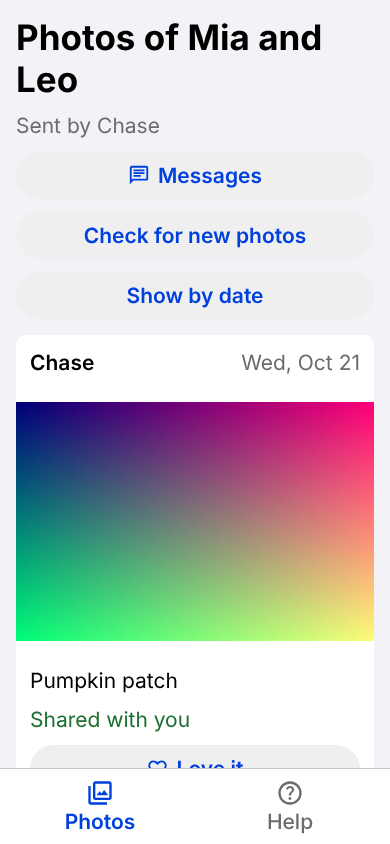
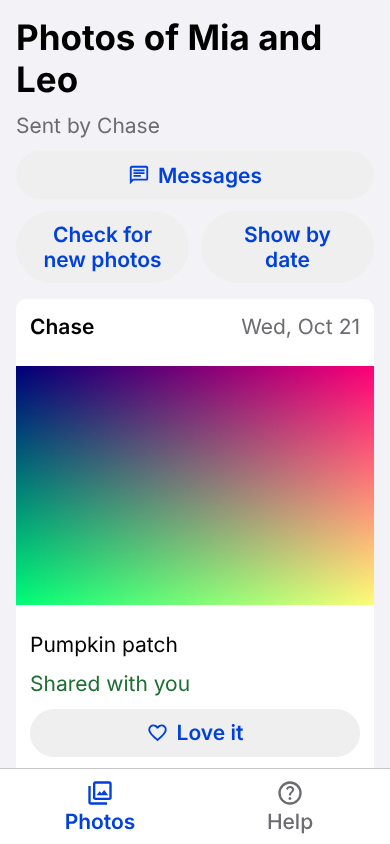
R11 (RV-U3): Photos header buttons two to a row
Messages and See events share a row; Check for new photos and Show by
date share another. 48 pt targets, 150 pt minimum width, rows wrap with
Bigger text. Sketch and persona check (FA Red, mitigated by unique words).
Portfolio iPhone screenshots refreshed. TRACKER, HANDOFF updated.

Claude-Session: https://claude.ai/code/session_01S8hfE8hxzQpCg52UgYumJD

diff --git a/app/src/screens/PhotosScreen.tsx b/app/src/screens/PhotosScreen.tsx
@@ -27,6 +27,10 @@ function EarlierCard({ g, onOpen }: { g: EarlierGroup; onOpen: () => void }) {
   );
 }
 
+// R11: header buttons two to a row. 150 pt fits the longest words at 17 pt; Bigger text (21 pt) wraps to one a row.
+const ROW = { flexDirection: 'row', flexWrap: 'wrap', gap: 12 } as const;
+const HALF = { flexGrow: 1, flexBasis: 150 } as const;
+
 export function PhotosScreen() {
   const app = useApp();
   const state = useFeed();
@@ -73,18 +77,23 @@ export function PhotosScreen() {
     <View style={{ gap: 12 }}>
       <Txt variant="display" role="header">{`Photos of ${app.space.name}`}</Txt>
       {senders ? <Txt variant="muted">{`Sent by ${senders}`}</Txt> : null}
-      <Button label="Messages" icon={{ sf: 'bubble.left.and.bubble.right', md: 'chat' }} variant="secondary" onPress={() => setMessages(true)} />
-      {hasEvents ? (
-        <Button label="See events" variant="secondary" onPress={() => setEvents({ eventId: null, fromList: true })} />
-      ) : null}
+      {/* R11 (RV-U3): two to a row so the first photo comes sooner; a row wraps with Bigger text. */}
+      <View testID="photos-actions-top" style={ROW}>
+        <Button label="Messages" icon={{ sf: 'bubble.left.and.bubble.right', md: 'chat' }} variant="secondary" style={HALF} onPress={() => setMessages(true)} />
+        {hasEvents ? (
+          <Button label="See events" variant="secondary" style={HALF} onPress={() => setEvents({ eventId: null, fromList: true })} />
+        ) : null}
+      </View>
       {app.space.can_post ? <YourName /> : null}
       <QueueStatus />
       {state.notice ? <Notice text={state.notice} onClose={() => feed.clearNotice()} /> : null}
       {state.loaded ? (
-        <Button label="Check for new photos" variant="secondary" busy={state.status === 'refreshing'} onPress={() => void feed.refresh()} />
-      ) : null}
-      {state.loaded && state.posts.length ? (
-        <Button label="Show photos by the date they were taken" text="Show by date" variant="secondary" onPress={() => setTimeline({ startAt: null })} />
+        <View testID="photos-actions-feed" style={ROW}>
+          <Button label="Check for new photos" variant="secondary" style={HALF} busy={state.status === 'refreshing'} onPress={() => void feed.refresh()} />
+          {state.posts.length ? (
+            <Button label="Show photos by the date they were taken" text="Show by date" variant="secondary" style={HALF} onPress={() => setTimeline({ startAt: null })} />
+          ) : null}
+        </View>
       ) : null}
       {earlier.map((g) => (
         <EarlierCard key={g.authorId} g={g} onOpen={() => setTimeline({ startAt: startOfNextMonth(g.openAt) })} />

diff --git a/app/src/screens/__tests__/photosHeader.test.tsx b/app/src/screens/__tests__/photosHeader.test.tsx
@@ -1,0 +1,42 @@
+// R11 (RV-U3, design note docs/product/decisions/2026-10-21-photos-header.md): fewer stacked buttons before the
+// first photo. The four header buttons sit two to a row; with Bigger text a row wraps instead of squeezing.
+import { screen, within } from '@testing-library/react-native';
+import { StyleSheet } from 'react-native';
+import React from 'react';
+import { FIXTURE, FakeBackend } from '../../api/fake/FakeBackend';
+import { seedPost } from '../../test/seed';
+import { expectGrandparentSafe, renderApp } from '../../test/renderApp';
+import { PhotosScreen } from '../PhotosScreen';
+
+async function withEvent() {
+  const be = FakeBackend.withFixture();
+  const chase = be.clientFor(FIXTURE.users.chase.id);
+  const ev = await chase.createLevel(FIXTURE.space.id, 'event', 'Beach week');
+  await chase.placePerson(ev, FIXTURE.users.jo.id, 'all');
+  await seedPost(be, { caption: 'Sandcastle', circles: [ev] });
+  return be;
+}
+
+describe('R11 RV-U3 Photos header', () => {
+  it('R11 RV-U3 Messages and See events share a row; Check for new photos and Show by date share a row', async () => {
+    await renderApp(<PhotosScreen />, { be: await withEvent(), user: 'jo' });
+    const top = await screen.findByTestId('photos-actions-top');
+    await within(top).findByRole('button', { name: 'See events' });
+    expect(within(top).getByRole('button', { name: 'Messages' })).toBeTruthy();
+    const feed = await screen.findByTestId('photos-actions-feed');
+    expect(within(feed).getByRole('button', { name: 'Check for new photos' })).toBeTruthy();
+    expect(within(feed).getByRole('button', { name: 'Show photos by the date they were taken' })).toBeTruthy();
+    for (const row of [top, feed]) expect(StyleSheet.flatten(row.props.style)).toMatchObject({ flexDirection: 'row', flexWrap: 'wrap' });
+  });
+
+  it('R11 RV-U3 each half-width button keeps a 48 pt target and room for its words (min 150 pt, grows to fill)', async () => {
+    await renderApp(<PhotosScreen />, { be: await withEvent(), user: 'jo' });
+    const top = await screen.findByTestId('photos-actions-top');
+    await within(top).findByRole('button', { name: 'See events' });
+    for (const b of within(top).getAllByRole('button')) {
+      expect(StyleSheet.flatten(b.props.style)).toMatchObject({ flexGrow: 1, flexBasis: 150 });
+      expect(StyleSheet.flatten(b.props.style).minHeight).toBeGreaterThanOrEqual(48);
+    }
+    expectGrandparentSafe();
+  });
+});

diff --git a/HANDOFF.md b/HANDOFF.md
@@ -11,8 +11,9 @@
 - **R15 part 1 done:** `share/helpers.ts` (HELP-R5, DUP-1, SHOT-1), BatchReview lines with "Send them too" and "Show what we left out"/"Put back" (HELP-ALL-1), picker reads library id and screenshot flag (`media/pick.ts`), `media/pixels.ts` (dHash, sharpness, darkness) tested on synthetic pictures.
 - **R14 done:** audit unchanged on expo 57.0.30; one advisory ships (decode-uri-component in expo-router, crafted link could freeze the app). Review RV-X4 corrected.
 - **R15 part 2 done:** look-alikes from a 160 px preview (`media/preview.ts`, jpeg-js 0.4.4 from npm, `pixels.ts`), lines appear after the screen opens; blur built but off (`BLUR_UNDER` null) until tuned. PERF-HELP-1: 30 ms per photo without JIT.
-- **Next exact step:** R11 Photos header sketch (grandparent-ux lane, design note first), then R6 reply-box sketch. R15 leftovers: DUP-2, server flags, blur tuning (needs Chase's 40 labeled photos). R11 and R6 need a grandparent-ux sketch first.
-- **Decisions to review:** look-alike lines appear a moment after the review screen opens (Send never waits). R15 helpers are on by default with an in-code switch, not a server flag yet (HELP-R4); Android screenshots come from the "Screenshots" album only. R3 crops tall or wide photos in the card to fill the frame (the full photo is one tap away). A3 keeps photo keys on the phone, sealed under a Keychain/Keystore key (RV-X6); a removed member's offline phone keeps showing kept photos until its next refresh.
+- **R11 done:** Photos header buttons two to a row (`PhotosScreen.tsx`, `photosHeader.test.tsx`); sketch and persona check in `docs/product/decisions/2026-10-21-photos-header.md`. Portfolio iPhone screenshots refreshed.
+- **Next exact step:** R6 reply-box sketch (grandparent-ux lane; REPLY-11 and the LG Red first). R15 leftovers: DUP-2, server flags, blur tuning (needs Chase's 40 labeled photos). R11 and R6 need a grandparent-ux sketch first.
+- **Decisions to review:** Photos header buttons two to a row, labels may wrap to two lines (R11). Look-alike lines appear a moment after the review screen opens (Send never waits). R15 helpers are on by default with an in-code switch, not a server flag yet (HELP-R4); Android screenshots come from the "Screenshots" album only. R3 crops tall or wide photos in the card to fill the frame (the full photo is one tap away). A3 keeps photo keys on the phone, sealed under a Keychain/Keystore key (RV-X6); a removed member's offline phone keeps showing kept photos until its next refresh.
 - **Blockers:** none. A1 can't be checked on a phone until a development build exists.
 
 ## Earlier: end of day 2 (Thu Oct 15, 2026, 10:30 pm)

diff --git a/docs/product/decisions/2026-10-21-photos-header.md b/docs/product/decisions/2026-10-21-photos-header.md
@@ -1,0 +1,17 @@
+# Decision: Photos header buttons two to a row (R11, RV-U3)
+Date: Oct 21, 2026 · Status: built, decision to review (night shift; grandparent-ux sketch below) · Source: app review RV-U3. Touches DS-1, DS-3, SPEC-MESSENGER, EVT-4, BETA-TIME-1
+
+**Sketch (grandparent-ux lane).** Before: up to six full-width buttons came before the first photo (Messages, See events, your name, Check for new photos, Show by date, older-photos cards), so on a small phone the first photo sat below the fold. After: Messages and See events share one row; Check for new photos and Show by date share another. Each button keeps its own words, a 48 pt target and at least 150 pt of width; a long label wraps to two lines rather than shrinking. With Bigger text (21 pt) a row wraps to one button a line, so nothing gets squeezed. Pull to refresh stays, but "Check for new photos" stays as the worded way to do it (no gesture-only actions). Nothing moved off the screen: RV-U3's idea of moving "Show by date" to the bottom was dropped, because Photos keeps loading older posts as you scroll and the bottom is rarely reached.
+
+| Persona | Green/Red | Why |
+|---|---|---|
+| GG Great-grandparent who won't install | Green | Doesn't use the app; email and the web link are unchanged |
+| LG Least-savvy grandparent | Green | Same four worded buttons in the same order, and the first photo shows without scrolling |
+| AG Android grandpa | Green | Outlined Material buttons with words; 48 pt targets; wraps on a narrow old phone |
+| SG Step or other-household grandparent | Green | Sees the same header as everyone; nothing about who sees what changes |
+| CU Cousin | Green | Less scrolling to reach new photos |
+| PA Posting parent | Green | Your name and sending status still sit under the buttons |
+| FA Far-away inviter | Red | Phone instructions like "the third button down" change |
+| TR Tech reader | Green | Layout only; no data change |
+
+Resolution: FA mitigation: every button keeps its unique words, so "tap the one that says Show by date" still works (G3); `docs/product/MILESTONE-1.md` gives no position-based steps for these buttons.

diff --git a/docs/product/TRACKER.md b/docs/product/TRACKER.md
@@ -30,7 +30,7 @@ The freeze is lifted (DEC-28). Ranked by staff-pm from `docs/product/reviews/202
 | R9 | PERF-FEED-1 cold-start timing on the web build | P1 | S | ☑ Oct 21: 260 ms median on the web build with the fake backend (`e2e-web/perf.spec.js`); a phone timing comes with A3 |
 | R10 | Specs: AI-2 duplicates, AI-4 screenshots and blurry photos, no model (persona check, grandparent-ux words) | P2 | S | ☑ Oct 21 specced: `SPEC-PHOTO-HELPERS.md` (HELP-*). Build is a new row after A3 |
 | R15 | Build the photo helpers (HELP-DUP-1..4, HELP-SHOT-1, HELP-BLUR-1/2, HELP-ALL-1) | P2 | M | ◐ Oct 21: same photo twice sent once, screenshots and look-alikes left out (clearest kept), "Show what we left out" with Put back, all one button from coming back. Blur is built but off until tuned. Left: tune blur on 40 labeled photos (needs Chase), DUP-2 30-day repeats, server flags |
-| R11 | Photos header: fewer stacked buttons before the first photo (RV-U3; grandparent-ux sketch first) | P2 | S | ☐ |
+| R11 | Photos header: fewer stacked buttons before the first photo (RV-U3; grandparent-ux sketch first) | P2 | S | ☑ Oct 21: buttons two to a row, wrapping with Bigger text; the first photo shows without scrolling. Sketch and persona check in `decisions/2026-10-21-photos-header.md` (decision to review) |
 | R12 | Thumbnail sizing from a first guess instead of up to 7 encodes (RV-P5; measure on a phone) | P2 | S | ☑ Oct 21: the display JPEG's bytes per pixel pick the first step (padded 1.5×); a busy photo takes 1 to 2 thumbnail encodes instead of up to 7, a plain one still gets the sharpest. Phone timing still to measure |
 | R13 | A4 resumable video uploads (after FLAG-7 video stripping; RV-P7) | P2 | L | ☐ |
 | R14 | npm audit: recheck the Expo CLI build-tool findings after the next Expo patch (RV-X4) | P2 | S | ☑ Oct 21: still 62 from 5 advisories on expo 57.0.30 (newest SDK 57 patch). One ships: decode-uri-component in expo-router (a crafted link could freeze the app; no data exposed). No forced override; recheck at the SDK 58 move |
